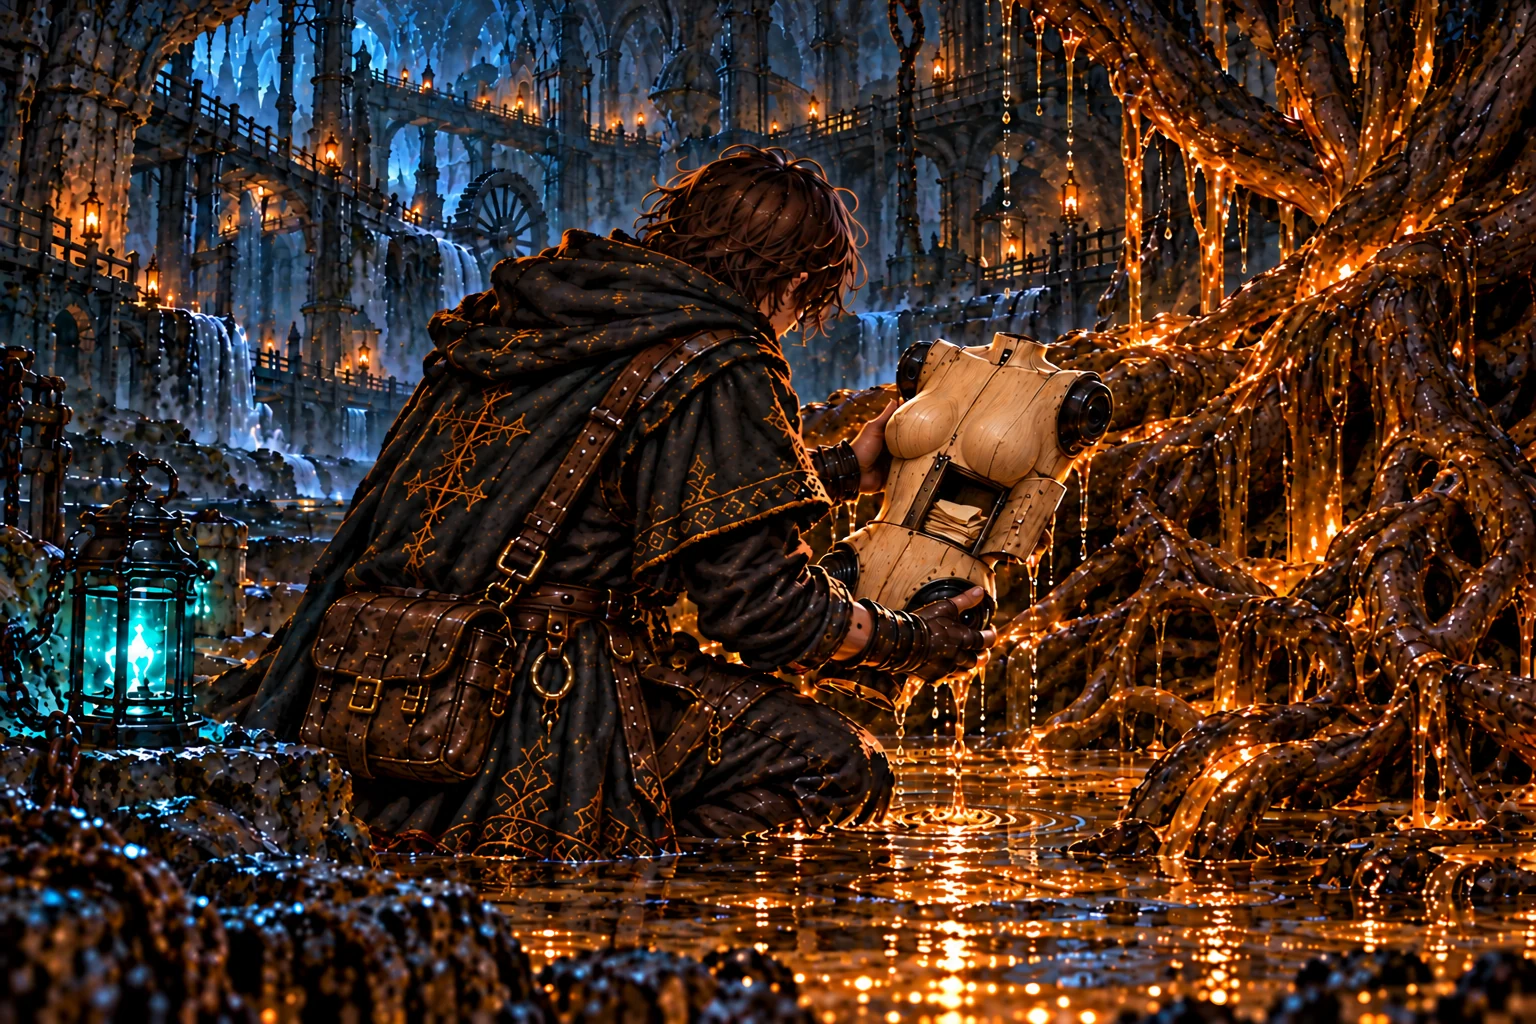
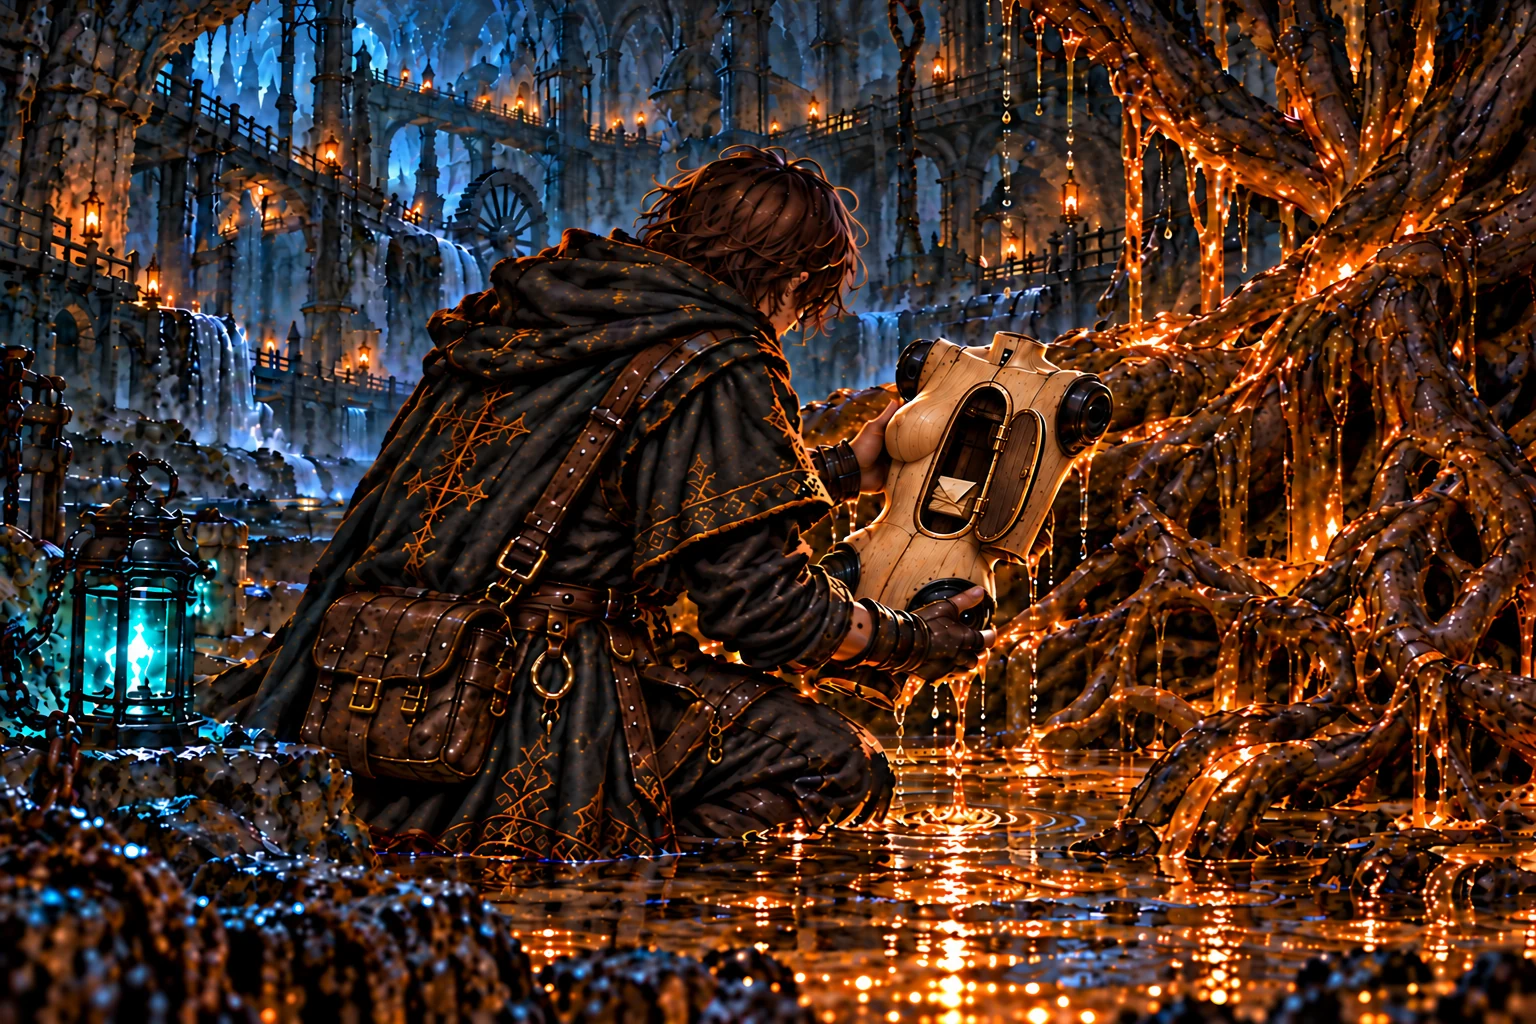
セラの胴の開口を胸中央の丸い扉へ修正

diff --git a/docs/art/codex-story-art-brief.md b/docs/art/codex-story-art-brief.md
@@ -334,9 +334,10 @@ Character reference sheet on a plain dark slate-blue background with soft even l
 
 **A-11. 第三章 w12_torso「軽すぎる帰りの荷」** `art/story-review/chapter3/w12_torso.png` (済)
 - 追加のユーザー指示: セラの胴の乳首を消し、胸の面は滑らかな木目にする。胸の扉と中の紙は保つ。
+- 追加のユーザー指示: 腹の低い位置の四角い開口を、`chapter3/irene_torso.png` の胸中央の縦長で角の丸い扉へ合わせる。首の下から胸骨に沿う位置とし、腹は滑らかな木肌に戻す。扉の中の折り畳んだ紙は残す。
 - 直す: 胴の胸に星形の紋 → 外す。本文は「背に彫られた、灯を掌に載せた手」なので、胴を少し回して背の印 (掌に炎) が見えるようにするか、胸は無地に。胸の扉と中の紙は保つ。
 ```text
-...except: remove the star-shaped emblem from the torso's front; if the back is visible, carve the small palm-up hand holding a flame there. Keep the open chest hatch with the folded paper inside.
+...except: correct ONLY Sera's chest hatch using the attached irene_torso reference. Replace the misplaced low rectangular abdominal opening and box-shaped lid with a vertically elongated, rounded-corner chest door centered along the sternum, beginning below the neck and ending above the abdomen. Match the reference torso construction: gently curved continuous wooden chest shell, narrow dark metal rim, small side hinges, curved wooden door swung outward. Keep ONE folded paper inside this chest cavity, no soul-fire before awakening. Restore the old abdominal opening to uninterrupted smooth wood grain. Keep the torso orientation, neck and joint sockets, apprentice, hands, roots, background, composition, fine texture, colors and lighting exactly. No nipples, front crest, extra parts or readable writing.
 ```
 
 **A-12. 第三章 mem_w13「魂の流れを登る師」** `art/story-review/chapter3/mem_w13.png` (済)
